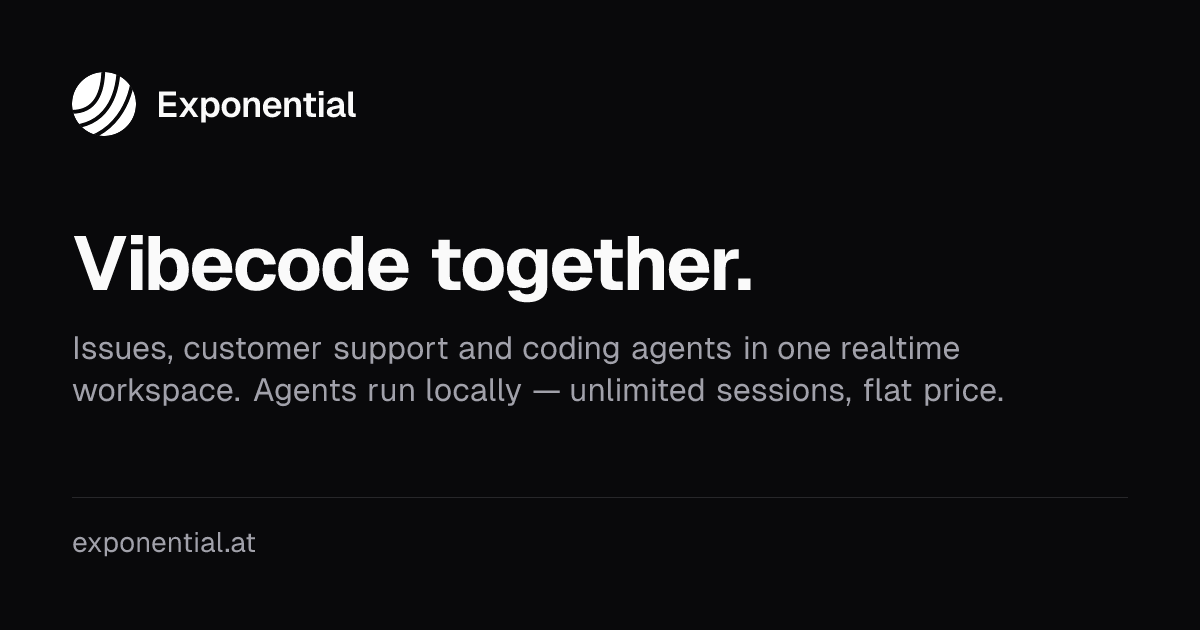
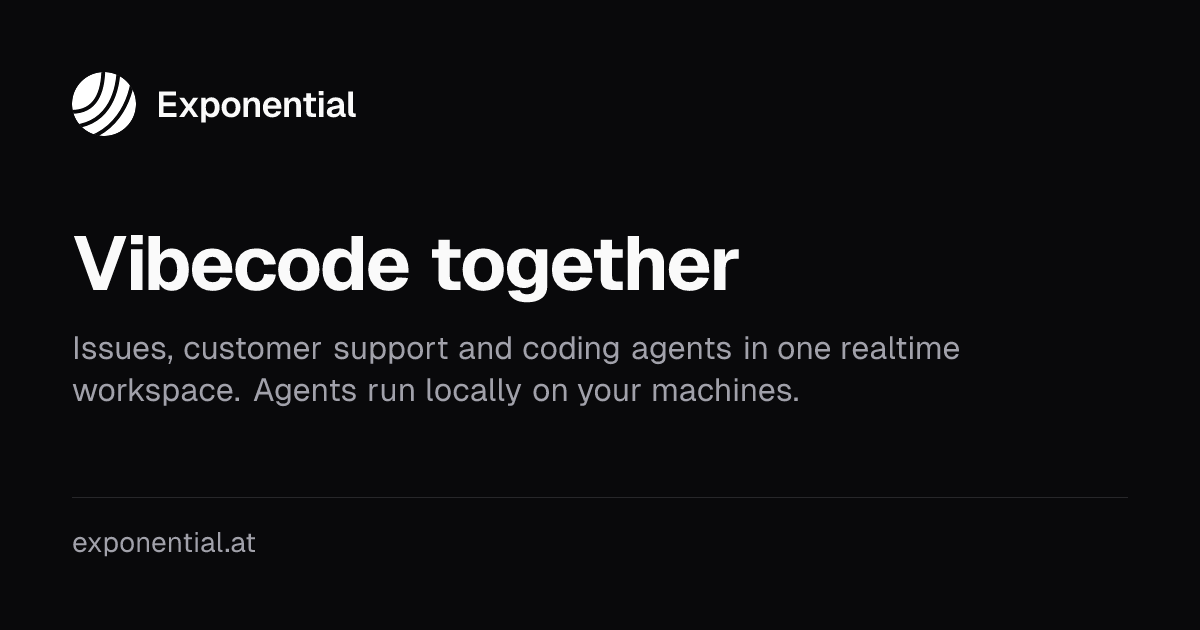
EXP-386: marketing site copy refinements
Strip trailing periods from every page/section title (hero, landing
sections, pricing page, download, FooterCTA defaults + overrides).
Remove the hero "unlimited sessions" tail, the actions-card em-dash
tails, the Apache subtitle tail (card tagline stays), the FooterCTA
"free for teams of three" tail, the platforms-note tail, the pricing
"feature matrix" tail, the collab stage captions, the footer
Product/Meta group headings, and the four landing section eyebrows.
Rewrite the support section subtitle to the widget-embed pitch.
Regenerate OG cards to match.

Changed region(s): [[0.4317, 0.6032, 0.8325, 0.6333], [0.6167, 0.4222, 0.6475, 0.4524]]

diff --git a/apps/marketing/src/components/CollabSection.tsx b/apps/marketing/src/components/CollabSection.tsx
@@ -8,7 +8,7 @@
    finished widget state statically. */
 import { motion } from "motion/react"
 import { useEffect, useState } from "react"
-import { EASE_EXPO, eyebrowDraw, sectionReveal } from "../lib/animations"
+import { EASE_EXPO, sectionReveal } from "../lib/animations"
 import { useScenePlayer } from "../lib/use-scene-player"
 import { SUPPORT_THREADS } from "../webui/data"
 import { WebDemo } from "../webui/WebDemo"
@@ -92,17 +92,12 @@ export function CollabSection() {
     <section id={`collaboration`} className={`home-collab`}>
       <div className={`shell`}>
         <motion.div className={`co-copy`} {...sectionReveal}>
-          <motion.span className={`section-eyebrow`} {...eyebrowDraw}>
-            Collaboration
-          </motion.span>
           <h2 className={`section-title`}>
-            Customer support and feedback in one place.
+            Customer support and feedback in one place
           </h2>
           <p className={`section-sub`}>
-            A support request from the feedback widget lands in your
-            team&rsquo;s shared Support inbox as an email conversation. Reply
-            from there, drop internal notes the reporter never sees, and turn
-            tickets into board issues your agents can pick up.
+            Embed our feedback and support widget into your site and fix your
+            customers&rsquo; needs faster.
           </p>
           <span className={`co-pro`}>
             <span className={`co-pro-badge`}>Team</span> Helpdesk is included in
@@ -133,9 +128,6 @@ export function CollabSection() {
                 </motion.div>
               )}
             </div>
-            <span className={`co-stage-caption`}>
-              Your users, in the feedback widget
-            </span>
           </div>
 
           {/* ── Connector: the request travels into the inbox ── */}
@@ -150,17 +142,13 @@ export function CollabSection() {
                  always mounted so the looping scene never shifts layout ── */}
           <div className={`co-webuicol`}>
             <WebDemo view={`support`} interactive={false} />
-            <span className={`co-stage-caption`}>
-              Your team, in the shared Support inbox
-            </span>
           </div>
         </div>
 
         {/* ── Cross-platform line (real content, outside the stage) ── */}
         <motion.div className={`co-platforms`} {...sectionReveal}>
           <p className={`co-platforms-note`}>
-            Collaborate across every platform &mdash; native apps for macOS,
-            Windows, Linux, iOS and Android, plus the web.
+            Collaborate across every platform
           </p>
           <DownloadIconRow />
         </motion.div>

diff --git a/apps/marketing/src/PricingPage.tsx b/apps/marketing/src/PricingPage.tsx
@@ -22,13 +22,13 @@ export function PricingPage() {
             animate="visible"
           >
             <motion.h1 className="hero-title" variants={heroChild}>
-              Free for teams of three.
+              Free for teams of three
               <br />
-              <em>One plan after that.</em>
+              <em>One plan after that</em>
             </motion.h1>
             <motion.p className="hero-sub" variants={heroChild}>
               Start with your whole team for free. One paid plan with
-              everything in it — no feature matrix to decode.
+              everything in it.
             </motion.p>
           </motion.div>
         </section>
@@ -55,7 +55,7 @@ export function PricingPage() {
           <motion.div className="shell" {...sectionReveal}>
             <span className="section-eyebrow">Self-hosting</span>
             <h2 className="section-title">
-              Open source. Support if you want it.
+              Open source. Support if you want it
             </h2>
             <p className="section-sub">
               Exponential is fully open source under Apache-2.0 — self-hosting
@@ -75,7 +75,7 @@ export function PricingPage() {
         <section id="compare">
           <motion.div className="shell" {...sectionReveal}>
             <span className="section-eyebrow">Comparison</span>
-            <h2 className="section-title">Exponential vs. Linear.</h2>
+            <h2 className="section-title">Exponential vs. Linear</h2>
             <p className="section-sub">
               A great tracker — but it bills for AI agents, runs only in their
               cloud, and can&apos;t be self-hosted.
@@ -85,7 +85,7 @@ export function PricingPage() {
         </section>
 
         <FooterCTA
-          title="Start free today."
+          title="Start free today"
           subtitle="Three seats and your coding agents, free forever. No card required."
         />
       </main>

diff --git a/apps/marketing/src/components/ActionsSection.tsx b/apps/marketing/src/components/ActionsSection.tsx
@@ -4,7 +4,6 @@
 import { motion } from "motion/react"
 import {
   cardReveal,
-  eyebrowDraw,
   sectionReveal,
   staggerContainer,
   viewportOnce,
@@ -20,12 +19,12 @@ const ACTIONS = [
   {
     icon: IcGitMerge,
     title: `Fix merge conflicts`,
-    text: `One click rebases the PR branch, resolves the conflicts and merges — in the branch's own worktree.`,
+    text: `One click rebases the PR branch, resolves the conflicts and merges.`,
   },
   {
     icon: IcRocket,
     title: `Deploy your server`,
-    text: `Ship a release, run a migration, restart a service — your runbooks become one-click actions.`,
+    text: `Ship a release, run a migration, restart a service.`,
   },
   {
     icon: IcSparkles,
@@ -39,10 +38,7 @@ export function ActionsSection() {
     <section id={`actions`} className={`home-actions`}>
       <div className={`shell`}>
         <motion.div {...sectionReveal}>
-          <motion.span className={`section-eyebrow`} {...eyebrowDraw}>
-            Actions
-          </motion.span>
-          <h2 className={`section-title`}>Use actions for AI tasks.</h2>
+          <h2 className={`section-title`}>Use actions for AI tasks</h2>
           <p className={`section-sub`}>
             Deploy your server, do code reviews, fix merge conflicts &mdash;
             every action runs on your own agents, on your own machines.

diff --git a/apps/marketing/src/components/SiteShell.tsx b/apps/marketing/src/components/SiteShell.tsx
@@ -56,8 +56,8 @@ export function SiteHeader() {
 }
 
 export function FooterCTA({
-  title = `Bring your team to the next level.`,
-  subtitle = `The only tool your team will need — free for teams of three, no credit card required.`,
+  title = `Bring your team to the next level`,
+  subtitle = `The only tool your team will need`,
 }: {
   title?: string
   subtitle?: string
@@ -86,7 +86,6 @@ export function FooterCTA({
 export function SiteFooter() {
   const groups = [
     {
-      title: `Product`,
       links: [
         { label: `Pricing`, href: `/pricing/` },
         { label: `Download`, href: LINKS.downloadPage },
@@ -95,7 +94,6 @@ export function SiteFooter() {
       ],
     },
     {
-      title: `Meta`,
       links: [
         { label: `GitHub`, href: LINKS.github.repo },
         { label: `Contact`, href: `/contact/` },
@@ -118,8 +116,7 @@ export function SiteFooter() {
           </span>
           <span className="foot-groups">
             {groups.map((g) => (
-              <span key={g.title} className="foot-group">
-                <span className="foot-group-title">{g.title}</span>
+              <span key={g.links[0].label} className="foot-group">
                 {g.links.map((l) => (
                   <a key={l.label} href={l.href} style={{ color: `inherit` }}>
                     {l.label}

diff --git a/apps/marketing/src/components/AgentsSection.tsx b/apps/marketing/src/components/AgentsSection.tsx
@@ -6,7 +6,7 @@
    Stage is decorative (aria-hidden + inert); reduced motion renders the
    sheet and the finished infographic statically, side by side. */
 import { AnimatePresence, motion } from "motion/react"
-import { EASE_EXPO, eyebrowDraw, sectionReveal } from "../lib/animations"
+import { EASE_EXPO, sectionReveal } from "../lib/animations"
 import { useScenePlayer } from "../lib/use-scene-player"
 import { LINKS } from "../lib/links"
 import { IcArrow } from "./icons"
@@ -97,10 +97,7 @@ export function AgentsSection() {
       <div className={`shell`}>
         <div className={`aw-grid`}>
           <motion.div className={`aw-copy`} {...sectionReveal}>
-            <motion.span className={`section-eyebrow`} {...eyebrowDraw}>
-              Agents
-            </motion.span>
-            <h2 className={`section-title`}>Bring your own agents.</h2>
+            <h2 className={`section-title`}>Bring your own agents</h2>
             <p className={`section-sub`}>
               Claude Code, Codex or pi &mdash; running locally on any connected
               desktop app or your server, on your subscription. Pick an issue

diff --git a/apps/marketing/scripts/generate-og.tsx b/apps/marketing/scripts/generate-og.tsx
@@ -46,17 +46,17 @@ type Card = { file: string; title: string; subtitle: string }
 const CARDS: Card[] = [
   {
     file: `og-home.png`,
-    title: `Vibecode together.`,
-    subtitle: `Issues, customer support and coding agents in one realtime workspace. Agents run locally — unlimited sessions, flat price.`,
+    title: `Vibecode together`,
+    subtitle: `Issues, customer support and coding agents in one realtime workspace. Agents run locally on your machines.`,
   },
   {
     file: `og-pricing.png`,
-    title: `Free for teams of three. One plan after that.`,
+    title: `Free for teams of three. One plan after that`,
     subtitle: `€12/seat/mo billed yearly, everything included. Local AI agents free on every plan. Self-host free — open source under Apache-2.0.`,
   },
   {
     file: `og-download.png`,
-    title: `Native on every platform.`,
+    title: `Native on every platform`,
     subtitle: `The Rust desktop IDE for macOS, Windows and Linux, plus iOS and Android companions.`,
   },
   {

diff --git a/apps/marketing/src/components/HomePricing.tsx b/apps/marketing/src/components/HomePricing.tsx
@@ -1,5 +1,5 @@
 import { motion } from "motion/react"
-import { eyebrowDraw, sectionReveal } from "../lib/animations"
+import { sectionReveal } from "../lib/animations"
 import { EVERY_PLAN_INCLUDES } from "../lib/plans"
 import { LINKS } from "../lib/links"
 import { IcArrow } from "./icons"
@@ -14,13 +14,9 @@ export function HomePricing() {
     <section id={`pricing`} className={`home-pricing`}>
       <div className={`shell`}>
         <motion.div {...sectionReveal}>
-          <motion.span className={`section-eyebrow`} {...eyebrowDraw}>
-            Pricing
-          </motion.span>
-          <h2 className={`section-title`}>Free for teams of three.</h2>
+          <h2 className={`section-title`}>Free for teams of three</h2>
           <p className={`section-sub`}>
-            One plan when you grow. Or self-host for free — open source under
-            Apache-2.0.
+            One plan when you grow. Or self-host for free.
           </p>
         </motion.div>
 

diff --git a/apps/marketing/src/HomePage.tsx b/apps/marketing/src/HomePage.tsx
@@ -41,14 +41,14 @@ export function HomePage() {
                 </motion.span>
                 {` `}
                 <motion.span className={`hero-word`} variants={heroWord}>
-                  together.
+                  together
                 </motion.span>
               </span>
             </motion.h1>
             <motion.p className={`hero-sub`} variants={heroChild}>
               Issues, customer support and coding agents in one realtime
               tracker. Agents run locally on your machines, on your
-              subscription — unlimited sessions, flat price.
+              subscription.
             </motion.p>
             <motion.div className={`hero-cta`} variants={heroChild}>
               <HeroDownload />

diff --git a/apps/marketing/src/DownloadPage.tsx b/apps/marketing/src/DownloadPage.tsx
@@ -25,7 +25,7 @@ export function DownloadPage() {
             animate="visible"
           >
             <motion.h1 className="hero-title" variants={heroChild}>
-              Get Exponential.
+              Get Exponential
             </motion.h1>
             <motion.p className="hero-sub" variants={heroChild}>
               Native on every platform.
